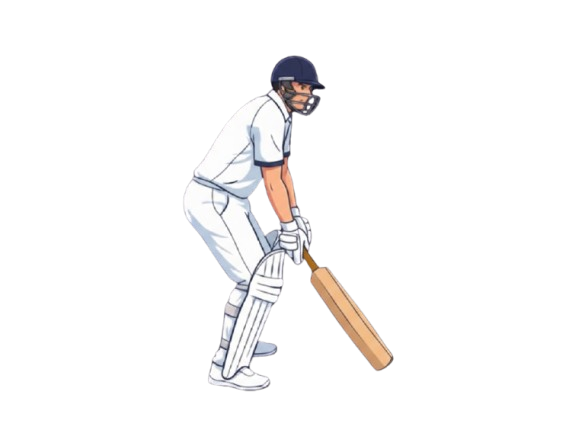
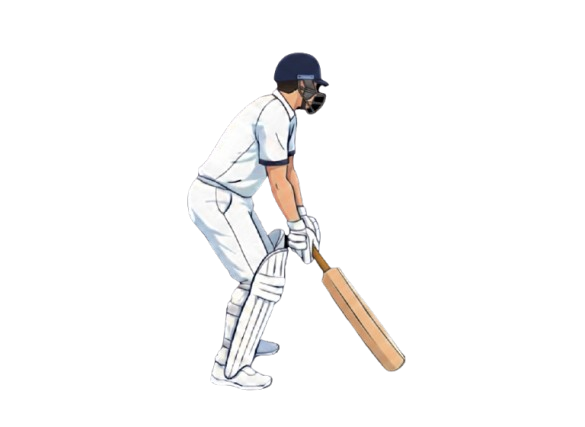
ball added

Changed region(s): [[0.3077, 0.1218, 0.7077, 0.9133]]

diff --git a/CricketGame/Components/Background.jsx b/CricketGame/Components/Background.jsx
@@ -1,33 +1,43 @@
 import React from 'react'
 import backgroundImg from "../public/background2.png"
-import batsman from "../public/batsman4.png"
+import batsman from "../public/batsman.png"
+import batsman2 from "../public/batsman2.png"
 import pitch from "../public/pitch.png"
 import wicket from "../public/wicket.png"
+import ball from "../public/ball.png"
 import { useState, useEffect } from 'react'
 
 function Background() {
     useEffect(() => {
         const handlePosition = (e) => {
+
+            if (e.code === "Space") {
+                setBat(false);
+                setTimeout(() => {
+                    setBat(true);
+                }, 300);
+            }
+
             if (e.key === "ArrowLeft") {
-            
+
                 setPosition((prev) => {
                     console.log(prev);
-                    if(prev>32){
-                        return prev-2;
+                    if (prev > 32) {
+                        return prev - 2;
                     }
                     else return prev;
                 });
-                
+
             }
             if (e.key === "ArrowRight") {
                 setPosition((prev) => {
-                     console.log(prev);
-                    if(prev<44){
-                        return prev+2;
+                    console.log(prev);
+                    if (prev < 44) {
+                        return prev + 2;
                     }
                     else return prev
                 });
-                
+
             }
         }
         window.addEventListener("keydown", handlePosition)
@@ -38,6 +48,10 @@ function Background() {
 
 
     const [position, setPosition] = useState(38);
+    const [bat, setBat] = useState(true);
+    const [ballLeft,setBallLeft]=useState(51);
+    const [ballTop,setBallTop]=useState(45);
+    const [ballWidth,setBallWidth]=useState(1);
     return (
         <div
             className="relative w-screen h-screen bg-cover bg-center"
@@ -45,12 +59,15 @@ function Background() {
         >
             <img src={pitch} alt="" className='absolute top-70 w-120 h-auto left-136 bg-transparent' />
             <img src={wicket} className='absolute top-95 left-191 bg-transparent w-10 h-auto' alt="" />
-
-            <img src={batsman} style={{ left: `${position}%` }} className='absolute  top-90 bg-transparent w-100 h-auto' alt="" />
+            <img src={ball} style={{left:`${ballLeft}%` , top:`${ballTop}%`, width:`${ballWidth}%`}} alt="" className='absolute bg-transparent h-auto' />
+            {bat && <img src={batsman} style={{ left: `${position}%` }} className='absolute  top-95 bg-transparent w-90 h-auto  transition-all duration-75' alt="" />}
+            {
+                !bat && <img src={batsman2} style={{ left: `${position}%` }} className='absolute  top-90 bg-transparent w-100 h-auto transition-all duration-75' alt="" />
+            }
             <img src={wicket} className='absolute top-120 left-172 bg-transparent w-50 h-auto' alt="" />
-
+            <button  className="bg-red-300 p-5 rounded-2xl absolute flex top-11/13 left-1/2">PLAY</button>
         </div>
     )
 }
 
-export default Background
+export default Background;
